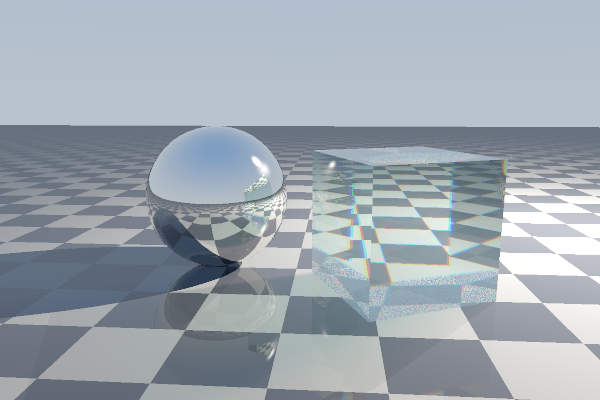
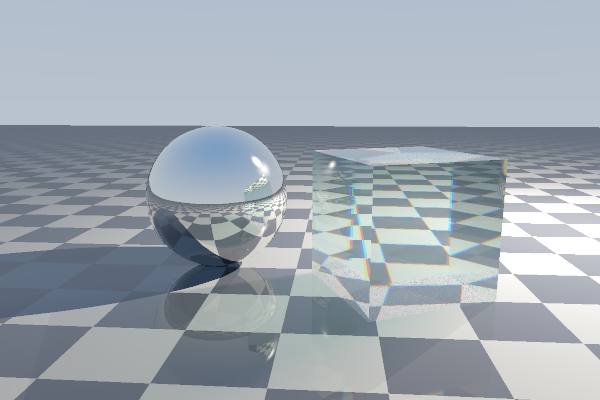
Record what the optimisation round measured
The performance section described an engine whose hot path was PL/pgSQL over
composite vectors, and its timing tables were measured before that changed.
Both are now wrong, and one of the standing claims -- that meshes cost 3-4x
the fixed geometry they replaced -- was true only of the slower code.

Rewrite the section around the two findings that came out of the round.  The
first is a cost model: an inlined expression node is about eighteen times
cheaper than a PL/pgSQL statement, and a FieldSelect on a composite about ten
times a plain Var, which together are why the hot path is now inlinable SQL
over flat columns.  The second is that inlining fails silently when an
argument is expensive, which is invisible in EXPLAIN and cost this engine
900 ms in a single line.  Both are recorded for the same reason as the
existing entries: each contradicts the approach that looks obvious, so a
later reader is likely to undo them without them.

Also replace the assumption that JIT was left off for reproducibility with
the measurement that it is a fixed several-second tax per render that never
pays back, and note that absolute timings move nearly twofold with machine
state, so the tables give before and after measured back-to-back rather than
figures that cannot be reproduced.

diff --git a/README.md b/README.md
@@ -145,7 +145,7 @@ scratch:
 
 ## Performance, and what it cost to find
 
-The engine is written around four measured facts. Each one contradicted the
+The engine is written around six measured facts. Each one contradicted the
 obvious approach, so they are recorded here rather than rediscovered.
 
 **1. A SQL function body is macro-expanded into its caller.** Writing
@@ -170,7 +170,29 @@ mentions the inverse direction twelve times. `EXPLAIN` showed the entire
 `ROW(1/nz(...), ...)` expression, with its three divisions, repeated twelve
 times inside one box test.
 
-**3. The executor beats interpreted PL/pgSQL, but only in the right shape.**
+**3. An inlined expression node costs ~2.5 ns; a PL/pgSQL statement ~45 ns.**
+Eighteen times. That crossover is far past where it looks: a fully inlined
+Möller–Trumbore with ~90 duplicated expression nodes beats the PL/pgSQL
+version by 5×, so `tri_hit` is FROM-less SQL over precomputed edges. A
+`(v).x` FieldSelect on a composite costs ~10 ns against ~1 ns for a plain
+`float8` Var, and the inlined slab and triangle tests name their arguments
+some sixty times between them — which is why `tri`, `bvh_node`, `mesh_box`
+and the ray tables all carry a flat `float8` mirror of their vectors as
+`GENERATED ALWAYS ... STORED` columns. Measured over the 460 304 candidate
+pairs of one 240×160 frame: box test 387 → 106 ns, triangle test 1601 → 290 ns.
+
+**4. Inlining fails silently when an argument is expensive.** `inline_function`
+refuses when a parameter the body names more than once is passed an
+expression costing more than `10 * cpu_operator_cost`. The function then runs
+as a real SQL function — a full executor run, microseconds — and **`EXPLAIN`
+shows nothing unusual**. Only timing does. Three instances were live in this
+code: `tri_shading_normal(t, tri_bary(...))` was 900 ms of a 1347 ms query
+from that cause alone. The escapes are to assign the argument to a PL/pgSQL
+local (it becomes a `Param`, cost 0) or to pass components rather than a
+composite. This is the exact mirror of fact 1: there, naming a value twice
+made it compute twice; here, naming it twice stops it inlining at all.
+
+**5. The executor beats interpreted PL/pgSQL, but only in the right shape.**
 Two comparisons, each between shapes doing identical work.
 
 4000 rays against 512 triangles, no acceleration:
@@ -194,7 +216,7 @@ more than the triangle tests they skip. The second says the reduction must not
 sort. Hence a two-level hierarchy expressed as a chain of joins, closed by an
 aggregate.
 
-**4. Leaf size is not sqrt(n).** A triangle test costs about three times a box
+**6. Leaf size is not sqrt(n).** A triangle test costs about three times a box
 test, so the optimum sits well below it. Measured over the default scene's
 1104-triangle ball:
 
@@ -208,6 +230,15 @@ test, so the optimum sits well below it. Measured over the default scene's
 
 `scene_reindex()` defaults to `sqrt(n)/3`, which lands in that basin.
 
+**JIT is off because it was measured, not because it is safer.** These are
+arithmetic-heavy queries over millions of rows, which looks like exactly the
+JIT's target, and it loses badly: +5% at default thresholds, **68× slower**
+with the thresholds at zero, and 3× slower *after* the optimisations above,
+because the newly inlined kernels grew past `jit_above_cost`. The penalty is
+a roughly constant 4.5–5 s per render regardless of resolution — `render()`
+issues a fixed number of distinct queries and each is compiled once per
+execution — so there is no crossover at which it pays back.
+
 A smaller effect, kept because it is free: every ray set is built with
 `CREATE TABLE AS` rather than `INSERT INTO`. PostgreSQL refuses to parallelise
 any statement that writes, with CTAS as the one exception — the identical
@@ -220,29 +251,34 @@ default 64 MB `/dev/shm`, which is why `docker-compose.yml` sets `shm_size`.
 ### Where the time goes
 
 `render(..., p_verbose => true)` reports each phase. At 240×160, one sample,
-depth 4, on the default 1118-triangle scene — intersection is the whole cost,
-and it is spread evenly across bounces because the glass keeps spawning rays:
+depth 4, on the default 1118-triangle scene:
 
 | phase | rays | time |
 |---|---|---|
-| bounce 0 | 38 400 | 1.5 s |
-| bounce 1 | 40 571 | 1.9 s |
-| bounce 2 | 33 979 | 2.0 s |
-| bounce 3 | 37 701 | 1.6 s |
-| bounce 4 | 24 708 | 0.9 s |
-| shadow rays | 46 573 | 1.2 s |
-| shading and tone mapping | | 1.0 s |
+| bounce 0 | 38 400 | 0.76 s |
+| bounce 1 | 40 571 | 1.08 s |
+| bounce 2 | 33 912 | 1.09 s |
+| bounce 3 | 36 523 | 0.86 s |
+| bounce 4 | 22 698 | 0.53 s |
+| shadow rays | 49 470 | 1.12 s |
+| shading and tone mapping | | 1.72 s |
 
-| resolution | samples | depth | time |
-|---|---|---|---|
-| 120×80 | 1 | 4 | 2.9 s |
-| 240×160 | 1 | 4 | 11.6 s |
-| 480×320 | 2×2 | 5 | 186 s |
-| 600×400 | 2×2 | 5 | 301 s |
+Absolute timings move a great deal with machine state — the same binary and
+scene measured 1.9× faster earlier in the day on this same laptop — so the
+table below gives before and after **measured back-to-back in one session**.
+Only the ratio carries across machines.
 
-This is roughly 3–4× the cost of the fixed-geometry version it replaced, which
-tested three analytic primitives per ray instead of intersecting a mesh. That
-is the price of general geometry; the BVH is what keeps it from being 40×.
+| resolution | samples | depth | before | after |
+|---|---|---|---|---|
+| 120×80 | 1 | 4 | 5.6 s | **2.6 s** |
+| 240×160 | 1 | 4 | 22.0 s | **10.1 s** |
+| 480×320 | 2×2 | 5 | — | 144 s |
+| 600×400 | 2×2 | 5 | — | 243 s |
+
+Against the fixed-geometry version this replaced — three analytic primitives
+per ray, no mesh at all — the same frame measures 5.98 s to this engine's
+10.1 s, so general geometry now costs **1.7×** rather than the 3.7× it cost
+before the inlining work. The BVH is what keeps it from being 40×.
 
 ## Layout
 
